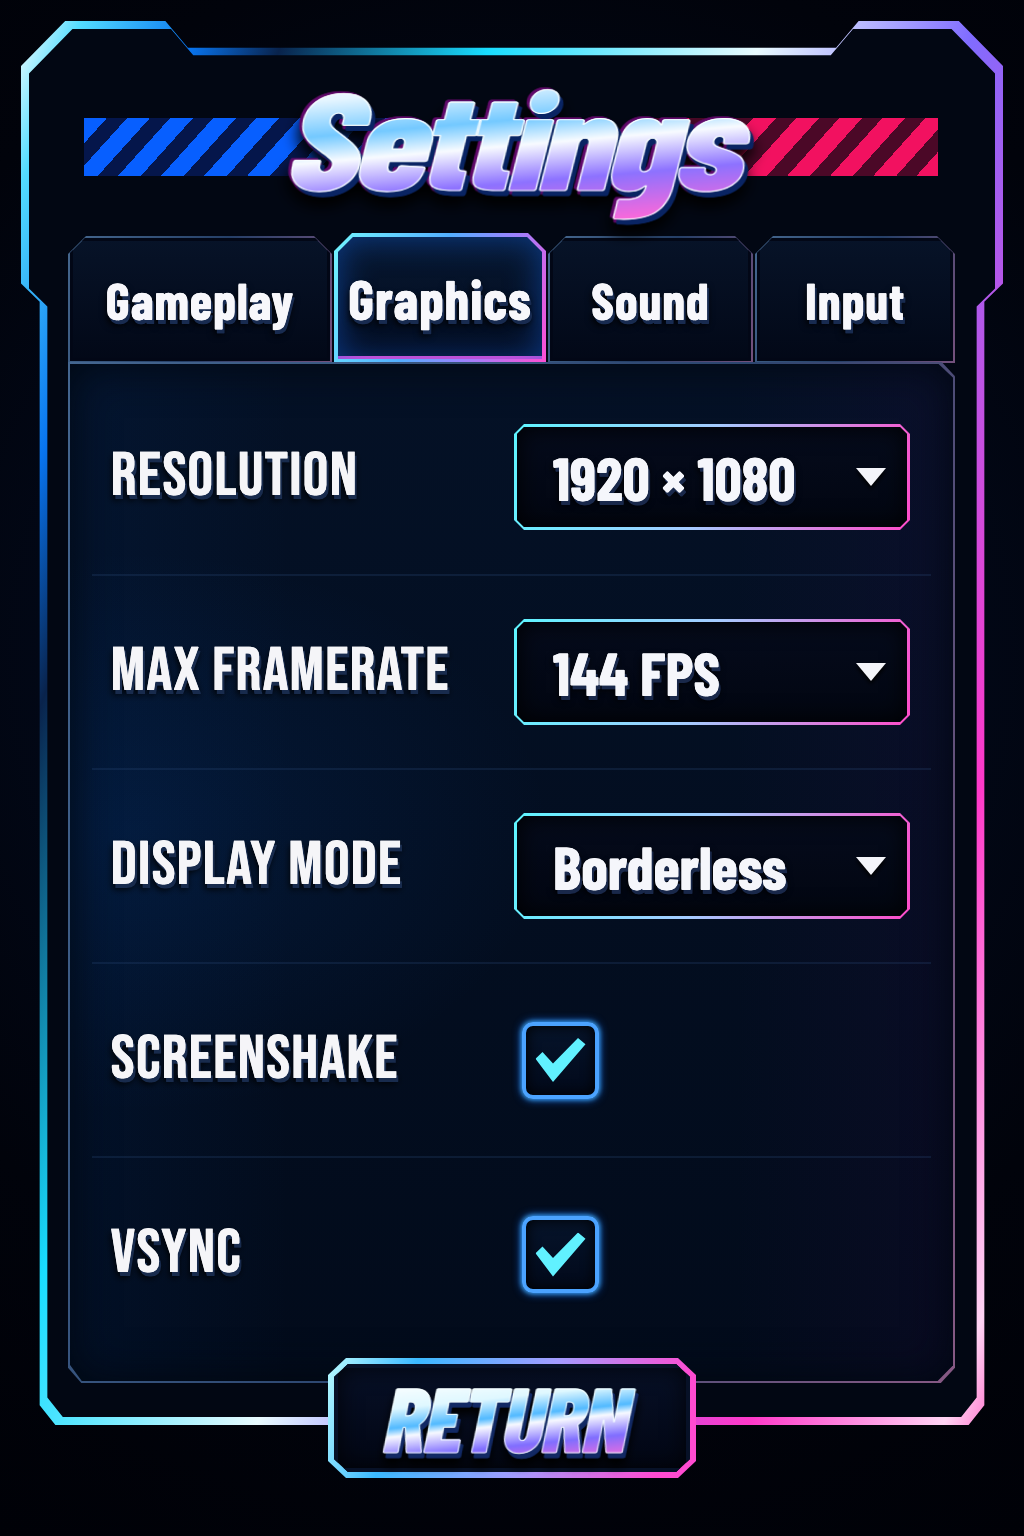
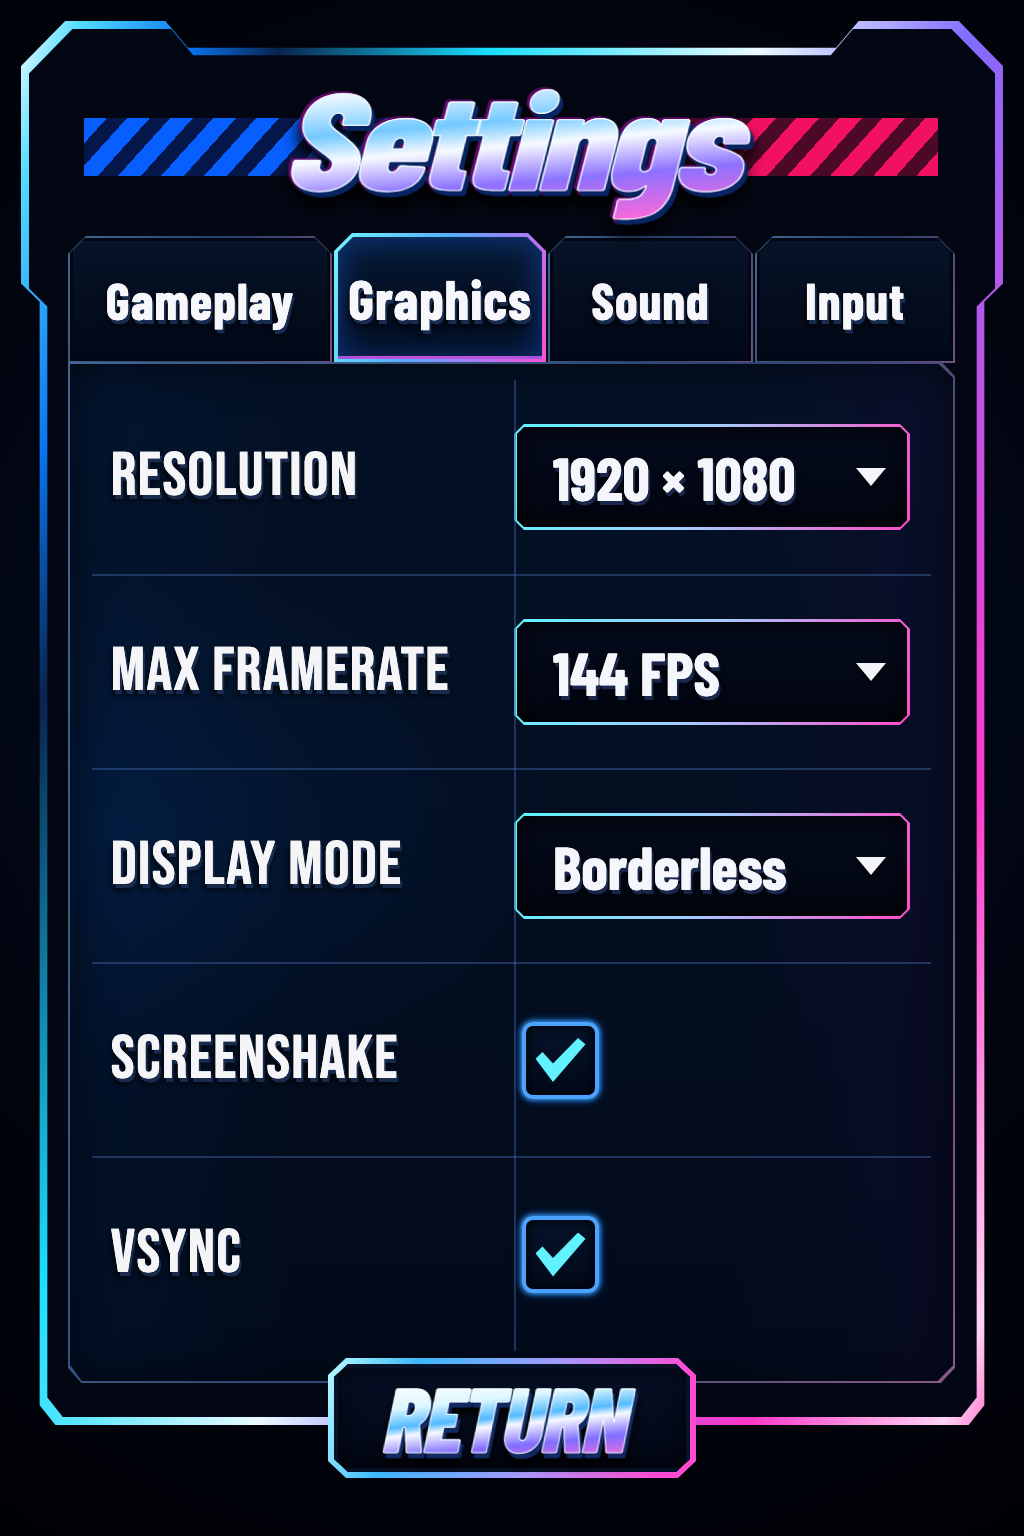
style: restore graphics table grid

diff --git a/app/components/SettingsControls.tsx b/app/components/SettingsControls.tsx
@@ -2,11 +2,11 @@ import type { ReactNode } from "react";
 import { displayFont } from "./styles";
 import { actionInnerClip, actionOuterClip, ClippedInset, controlInnerClip, controlOuterClip } from "./ClippedInset";
 
-type BaseProps = { label: ReactNode; first?: boolean; offsetY?: number; rowHeight?: number };
+type BaseProps = { label: ReactNode; first?: boolean; offsetY?: number; rowHeight?: number; strongRule?: boolean };
 
-export function SelectControl({ label, options, value, onChange, first = false, offsetY = 0, rowHeight = 158 }: BaseProps & { options: string[]; value: string; onChange: (value: string) => void }) {
+export function SelectControl({ label, options, value, onChange, first = false, offsetY = 0, rowHeight = 158, strongRule = false }: BaseProps & { options: string[]; value: string; onChange: (value: string) => void }) {
   return (
-    <SettingRow first={first} label={label} rowHeight={rowHeight}>
+    <SettingRow first={first} label={label} rowHeight={rowHeight} strongRule={strongRule}>
       <div style={{ position: "relative", display: "flex", alignItems: "center", height: "100%", transform: `translateY(${offsetY}px)` }}>
         <div
           aria-hidden="true"
@@ -61,9 +61,9 @@ export function SelectControl({ label, options, value, onChange, first = false, 
   );
 }
 
-export function ToggleControl({ checked, label, ariaLabel, onChange, withInfo = false, rowHeight = 159, offsetY = 0 }: BaseProps & { checked: boolean; ariaLabel?: string; onChange: (checked: boolean) => void; withInfo?: boolean }) {
+export function ToggleControl({ checked, label, ariaLabel, onChange, withInfo = false, rowHeight = 159, offsetY = 0, strongRule = false }: BaseProps & { checked: boolean; ariaLabel?: string; onChange: (checked: boolean) => void; withInfo?: boolean }) {
   return (
-    <SettingRow label={<>{label}{withInfo && <InfoBadge />}</>} rowHeight={rowHeight}>
+    <SettingRow label={<>{label}{withInfo && <InfoBadge />}</>} rowHeight={rowHeight} strongRule={strongRule}>
       <label style={{ position: "relative", display: "flex", alignItems: "center", width: 77, height: 77, marginLeft: 8, cursor: "pointer", transform: `translateY(${offsetY}px)` }}>
         <input suppressHydrationWarning aria-label={ariaLabel ?? String(label)} checked={checked} onChange={(event) => onChange(event.target.checked)} type="checkbox" style={{ position: "absolute", inset: 0, zIndex: 2, width: 77, height: 77, margin: 0, opacity: 0, cursor: "pointer" }} />
         <span aria-hidden="true" style={{ position: "relative", boxSizing: "border-box", width: 77, height: 77, border: "4px solid #4ba3ff", borderRadius: 11, background: "linear-gradient(180deg, #06142b, #02091a)", boxShadow: "inset 0 0 14px #000, 0 0 10px #166cff, 0 0 5px #6af6ff" }}>
@@ -85,9 +85,9 @@ export function EraseControl() {
   );
 }
 
-function SettingRow({ label, children, first = false, last = false, rowHeight }: BaseProps & { children: ReactNode; last?: boolean }) {
+function SettingRow({ label, children, first = false, last = false, rowHeight, strongRule = false }: BaseProps & { children: ReactNode; last?: boolean }) {
   return (
-    <div style={{ boxSizing: "border-box", height: rowHeight ?? (last ? 169 : 159), display: "grid", gridTemplateColumns: "422px 1fr", alignItems: "center", borderTop: first ? 0 : "2px solid rgba(43,74,123,.25)" }}>
+    <div style={{ boxSizing: "border-box", height: rowHeight ?? (last ? 169 : 159), display: "grid", gridTemplateColumns: "422px 1fr", alignItems: "center", borderTop: first ? 0 : `2px solid rgba(55,91,148,${strongRule ? ".52" : ".25"})` }}>
       <div style={{ position: "relative", display: "flex", alignItems: "center", minWidth: 0, height: "100%", paddingLeft: 18, color: "#f5f5f8", fontFamily: displayFont, fontSize: 61, lineHeight: 0.92, letterSpacing: "1.3px", textTransform: "uppercase", textShadow: "2px 4px 0 #182b4d, 0 5px 7px #000", transform: "scaleX(1.045)", transformOrigin: "left center" }}>
         {label}
       </div>

diff --git a/app/components/GraphicsSettings.tsx b/app/components/GraphicsSettings.tsx
@@ -24,7 +24,20 @@ export function GraphicsSettings({
   onVsyncChange: (checked: boolean) => void;
 }) {
   return (
-    <>
+    <div style={{ position: "relative", height: 971 }}>
+      <span
+        aria-hidden="true"
+        style={{
+          position: "absolute",
+          zIndex: 2,
+          top: 0,
+          bottom: 0,
+          left: 422,
+          width: 2,
+          background: "rgba(55,91,148,.52)",
+          pointerEvents: "none",
+        }}
+      />
       <SelectControl
         first
         label="Resolution"
@@ -32,6 +45,7 @@ export function GraphicsSettings({
         options={["1920 × 1080", "2560 × 1440", "3840 × 2160"]}
         onChange={onResolutionChange}
         rowHeight={194}
+        strongRule
       />
       <SelectControl
         label="Max Framerate"
@@ -39,6 +53,7 @@ export function GraphicsSettings({
         options={["60 FPS", "120 FPS", "144 FPS", "240 FPS"]}
         onChange={onMaxFramerateChange}
         rowHeight={194}
+        strongRule
       />
       <SelectControl
         label="Display Mode"
@@ -46,14 +61,16 @@ export function GraphicsSettings({
         options={["Borderless", "Fullscreen", "Windowed"]}
         onChange={onDisplayModeChange}
         rowHeight={194}
+        strongRule
       />
       <ToggleControl
         checked={screenshake}
         label="Screenshake"
         onChange={onScreenshakeChange}
         rowHeight={194}
+        strongRule
       />
-      <ToggleControl checked={vsync} label="VSync" onChange={onVsyncChange} rowHeight={195} />
-    </>
+      <ToggleControl checked={vsync} label="VSync" onChange={onVsyncChange} rowHeight={195} strongRule />
+    </div>
   );
 }
